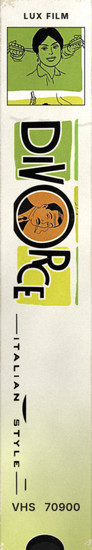
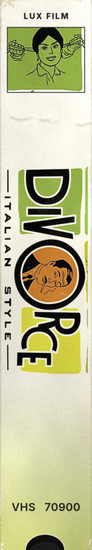
Divorce Italian Style: DIVORCE and ITALIAN STYLE kept together as one block
Claude-Session: https://claude.ai/code/session_01RnhGoNL3FXBroQSY7w3Vr1

diff --git a/spinegen/vault.py b/spinegen/vault.py
@@ -1285,12 +1285,13 @@ std('breakfast-at-tiffany-s-1961', ('grad', [(0, (246, 244, 242)), (.6, (226, 22
     photo=ph(0.24, 0.42, 0.34, 1.9), pb=(20, 20, 20), lg=(20, 20, 20), lw=.55, order='LPTF', ft='b', fcol=(20, 20, 20), fin=OLD, seed=1961)
 
 # Divorce Italian Style (1961; moved to the Vault from 2026 at Ian's request, 26 Nov 2026): the poster's white,
-# its DIVORCE cut off it whole with the green panels and the face in the O, the ruled ITALIAN STYLE beside it,
+# its DIVORCE cut off it whole with the green panels, the face in the O and the ruled ITALIAN STYLE under it
+# kept together as one block (Ian, 26 Nov 2026),
 # one of the comic panels for the picture.  Label from IMDb's company credits (Lux Film).
 std('divorce-italian-style-1961', ('grad', [(0, (250, 250, 246)), (.7, (238, 238, 230)), (1, (196, 206, 120))]), (24, 24, 24),
-    LC([(0.06, 0.293, 0.93, 0.48), (0.08, 0.488, 0.92, 0.522)], 150, gapf=.12, valign='base',
-       cuts=[key_cut(lambda a: (_lum3(a) < .86) | (a.max(2) - a.min(2) > .14)), key_cut(lambda a: _lum3(a) < .4)]),
-    photo=ph(0.5, 0.645, 0.27, 1.0), pb=(24, 24, 24), studio=['LUX FILM'], scol=(24, 24, 24), order='lPTF',
+    LC([(0.06, 0.293, 0.93, 0.524)], 200, margin=2,
+       cuts=[lambda rgb: (rgb, _soft(((_lum3(rgb / 255.) < .86) | (np.ptp(rgb / 255., axis=2) > .14)).astype(np.float32), 1.4))]),
+    photo=ph(0.5, 0.632, 0.27, 0.84), pb=(24, 24, 24), studio=['LUX FILM'], scol=(24, 24, 24), order='lPTF',
     ft='b', fcol=(24, 24, 24), fin=OLD, seed=1961)
 
 # Il Posto (1961): the poster's cream, its white ERMANNO OLMI'S and yellow IL POSTO cut off it in their own colours, Domenico at the desk

diff --git a/CLAUDE.md b/CLAUDE.md
@@ -36,7 +36,7 @@ Each year is its own shelf. `SHELVES` near the top of `app.js` maps year -> data
 Years that were mostly bulk-rated (whole backlogs rated in one sitting, so `watched` is the rating date, not the viewing date) do not get year shelves. They go in **the Vault**, one shelf per decade of release: `vault-1930s.json` ... `vault-2010s.json` (`{"vault": "1990s", "decade": 1990, "films": [...]}`, sorted by release year), 1,036 films from the 2007-2015 ratings (1930s 33, 1940s 51, 1950s 74, 1960s 82, 1970s 60, 1980s 73, 1990s 169, 2000s 320, 2010s 174; earliest 1931). 2016 and later are year shelves. Why 2015 and earlier: 2015 (82 of 107 on four dates), 2014 (all but two of 391), 2013 (22 of 28 on one date), 2012 (all 44 on 25 Jan 2012), 2007-2008 (190 and 275); one film in 2009, none in 2010-2011. The decade files were built from staging `films-<year>.json` files that Ian's fetch-script run filled in (posters, logos, TMDB title/year/genres), then deleted: the decade files are now the source. No film is in two years or on a 2016+ shelf. Sleepless in America has no poster on TMDB.
 - Site: `VAULT` in `app.js` adds `?shelf=1930s` ... `?shelf=2010s` to `SHELVES`; the arrows run 1930s ... 2010s, then 2016 ... 2026. A Vault shelf has no ticket: `.vault-plate` (style.css) is a plate in the ticket's blue and yellow with Blockletter ("THE VAULT / 1990S"); Ian could supply ticket artwork instead. The plate carries a big yellow asterisk (an inline SVG, `.vault-star`; Blockletter's own asterisk is tiny) keyed to a footnote under the ticket row (`.vault-note`, Ian's voice): Vault films were watched before 2016, before he kept a diary, so they have no viewing date and are shelved by decade. The viewer says "Watched before 2016" for every Vault tape instead of the `watched` date (which is only the bulk-rating date), and the "Date watched" sort button is removed there (`?sort=watched` is ignored on a Vault shelf) (Ian, 18 Nov 2026). Its default sort is release year, oldest first (`VIEW_DEFAULT`); the arrows drop `?sort=` when crossing between the Vault and the year shelves. From a Vault shelf the VCR only syncs ratings (it adds no films there); Re-mark spine still works.
 - Staff Picks (Ian's favourites) and a Top 100 are ideas on hold.
-- **Spines: `spinegen/vault.py`** (exec'd at the end of `tapes.py`, same namespace; run them the usual way, `python3 spinegen/tapes.py <id>`). Done so far: 1930s (33) and 1940s (51), 17 Nov 2026, 1950s (74), 1960s (82) and 1970s (60), 1980s (73) and 1990s (169), 18 Nov (troublesome titles parked in `data/logos-wanted.md`, see the rule below); 2000s (320), 18-24 Nov; 2010s (173 of 174; Sleepless in America has no poster, so it keeps the drawn spine), 24 Nov. The whole Vault is done. 2010s clamshells: Tangled, Toy Story 3, Cars 2, Small Fry, Brave, Partysaurus Rex, Wreck-It Ralph, Frozen, Monsters University, Toy Story of Terror!, Big Hero 6, Toy Story That Time Forgot, Inside Out, Riley's First Date? (Alice in Wonderland and Maleficent are live action, so slipcases; Ghibli's Kaguya is a slipcase); 2-tape box: The Wolf of Wall Street. Mix audited 24 Nov: stickers 28%, line under the title 35%, cast 8%, picture below 15%. 2000s clamshells: Dinosaur, Fantasia 2000, The Emperor's New Groove, Atlantis, Monsters Inc., Lilo & Stitch, Return to Never Land, Treasure Planet, Brother Bear, Finding Nemo, The Jungle Book 2, Home on the Range, The Incredibles, Chicken Little, Cars, The Wild, Meet the Robinsons, Ratatouille, WALL-E, The Princess and the Frog, Up (Pirates of the Caribbean, Enchanted and the Narnia films are live action, so slipcases; Ghibli's Ponyo is a slipcase like Kiki's); 2-tape boxes: Lagaan, the three Lord of the Rings films, Dogville, King Kong. The 2000s posters set many titles in chrome, fire, brush or glow, so far more are parked than in older decades (series that share a logo, Harry Potter, Shrek, Ocean's, Madagascar, Pirates, Fast & Furious, Spider-Man, are typeset alike and parked once each). Mix audited 24 Nov: stickers 28%, line under the title 32%, cast 8%, picture below 16%. 1990s clamshells: The Rescuers Down Under, Beauty and the Beast, Aladdin, The Lion King, A Goofy Movie, Pocahontas, Toy Story, James and the Giant Peach, The Hunchback of Notre Dame, Hercules, A Bug's Life, Mulan, Tarzan, Toy Story 2 (Disney live-action films such as The Mighty Ducks and The Parent Trap, and Touchstone's, stay slipcases); 2-tape boxes: Schindler's List, Short Cuts, Magnolia, The Green Mile. 1980s clamshells: The Fox and the Hound, The Black Cauldron, The Great Mouse Detective, Oliver & Company, The Little Mermaid; 2-tape box: The Unbearable Lightness of Being. No 1980s title is typeset. `comp_cut(..., fillh=True)` fills each kept piece's holes. Typeset in the 1970s: The Harder They Come, Marathon Man, The Brink's Job. 1970s clamshells: The Aristocats, Robin Hood, Winnie the Pooh, The Rescuers; 2-tape boxes: The Godfather, The Godfather Part II, The Deer Hunter. `comp_cut(..., opn=1)` skips the opening pass so hairline serifs survive (That Obscure Object of Desire). Typeset in the 1960s (reasons in the specs): Youth of the Beast, Mary Poppins, The Killers (1964), Story of a Prostitute, Band of Outsiders, The Firemen's Ball, Army of Shadows, Salesman. Typeset in the 1950s, each with its reason in the spec: Night and the City, Sunset Boulevard, The African Queen, Sansho the Bailiff, The Swan, The Wrong Man. Made to the same standard as 2016-2026 (Ian asked for "love and respect" for these): every title lifted or cut off its own poster (no typeset titles in the 1930s-40s), a crop picked per poster, credits and typed labels from IMDb (JSON-LD director/actor; company credits for films with no logo file), mix audited against the 2026 targets per decade. Disney clamshells: Snow White, Fantasia, Pinocchio, Dumbo, Bambi. **Divorce Italian Style** came in on the 2026 shelf (VCR, 26 Nov 2026) and was moved to Vault 1960s at Ian's ask (he saw it years ago and loved it): `watched` set to 2008-07-18, one of the bulk-rating dates; the VCR never moves it back, since it never changes a watched date or re-adds a film that is on any shelf. Its spec is in vault.py.
+- **Spines: `spinegen/vault.py`** (exec'd at the end of `tapes.py`, same namespace; run them the usual way, `python3 spinegen/tapes.py <id>`). Done so far: 1930s (33) and 1940s (51), 17 Nov 2026, 1950s (74), 1960s (82) and 1970s (60), 1980s (73) and 1990s (169), 18 Nov (troublesome titles parked in `data/logos-wanted.md`, see the rule below); 2000s (320), 18-24 Nov; 2010s (173 of 174; Sleepless in America has no poster, so it keeps the drawn spine), 24 Nov. The whole Vault is done. 2010s clamshells: Tangled, Toy Story 3, Cars 2, Small Fry, Brave, Partysaurus Rex, Wreck-It Ralph, Frozen, Monsters University, Toy Story of Terror!, Big Hero 6, Toy Story That Time Forgot, Inside Out, Riley's First Date? (Alice in Wonderland and Maleficent are live action, so slipcases; Ghibli's Kaguya is a slipcase); 2-tape box: The Wolf of Wall Street. Mix audited 24 Nov: stickers 28%, line under the title 35%, cast 8%, picture below 15%. 2000s clamshells: Dinosaur, Fantasia 2000, The Emperor's New Groove, Atlantis, Monsters Inc., Lilo & Stitch, Return to Never Land, Treasure Planet, Brother Bear, Finding Nemo, The Jungle Book 2, Home on the Range, The Incredibles, Chicken Little, Cars, The Wild, Meet the Robinsons, Ratatouille, WALL-E, The Princess and the Frog, Up (Pirates of the Caribbean, Enchanted and the Narnia films are live action, so slipcases; Ghibli's Ponyo is a slipcase like Kiki's); 2-tape boxes: Lagaan, the three Lord of the Rings films, Dogville, King Kong. The 2000s posters set many titles in chrome, fire, brush or glow, so far more are parked than in older decades (series that share a logo, Harry Potter, Shrek, Ocean's, Madagascar, Pirates, Fast & Furious, Spider-Man, are typeset alike and parked once each). Mix audited 24 Nov: stickers 28%, line under the title 32%, cast 8%, picture below 16%. 1990s clamshells: The Rescuers Down Under, Beauty and the Beast, Aladdin, The Lion King, A Goofy Movie, Pocahontas, Toy Story, James and the Giant Peach, The Hunchback of Notre Dame, Hercules, A Bug's Life, Mulan, Tarzan, Toy Story 2 (Disney live-action films such as The Mighty Ducks and The Parent Trap, and Touchstone's, stay slipcases); 2-tape boxes: Schindler's List, Short Cuts, Magnolia, The Green Mile. 1980s clamshells: The Fox and the Hound, The Black Cauldron, The Great Mouse Detective, Oliver & Company, The Little Mermaid; 2-tape box: The Unbearable Lightness of Being. No 1980s title is typeset. `comp_cut(..., fillh=True)` fills each kept piece's holes. Typeset in the 1970s: The Harder They Come, Marathon Man, The Brink's Job. 1970s clamshells: The Aristocats, Robin Hood, Winnie the Pooh, The Rescuers; 2-tape boxes: The Godfather, The Godfather Part II, The Deer Hunter. `comp_cut(..., opn=1)` skips the opening pass so hairline serifs survive (That Obscure Object of Desire). Typeset in the 1960s (reasons in the specs): Youth of the Beast, Mary Poppins, The Killers (1964), Story of a Prostitute, Band of Outsiders, The Firemen's Ball, Army of Shadows, Salesman. Typeset in the 1950s, each with its reason in the spec: Night and the City, Sunset Boulevard, The African Queen, Sansho the Bailiff, The Swan, The Wrong Man. Made to the same standard as 2016-2026 (Ian asked for "love and respect" for these): every title lifted or cut off its own poster (no typeset titles in the 1930s-40s), a crop picked per poster, credits and typed labels from IMDb (JSON-LD director/actor; company credits for films with no logo file), mix audited against the 2026 targets per decade. Disney clamshells: Snow White, Fantasia, Pinocchio, Dumbo, Bambi. **Divorce Italian Style** (its DIVORCE / ITALIAN STYLE block cut whole, kept stacked as on the poster at Ian's ask) came in on the 2026 shelf (VCR, 26 Nov 2026) and was moved to Vault 1960s at Ian's ask (he saw it years ago and loved it): `watched` set to 2008-07-18, one of the bulk-rating dates; the VCR never moves it back, since it never changes a watched date or re-adds a film that is on any shelf. Its spec is in vault.py.
   - Old posters set titles on slants, arcs, steps and interlocking stacks, so vault.py adds LC cuts for them: `comp_cut(test, keep=fn(cx, cy), top=n, rot=deg)` keeps whole letter pieces (filtered by position in the crop) and can turn the result; `pick_cut(test, box, pts, rot=, flat=, split=)` keeps the letters whose centres are listed (read them off the poster with a connected-components pass), `flat=True` drops each letter onto one baseline (Charlie Chan at the Opera's staircase), `split=n` erodes first to separate touching script letters; `seq_cut(test, box, pts, turn=, holes=)` rebuilds a word letter by letter in reading order, turning each upright along its arc (Grand Illusion, Cat People, Dumbo's tumbling letters, `holes` fills Dumbo's dots); `plate_cut(test, rot=)` cuts a whole sign or panel with the lettering printed on it (Mr. & Mrs. Smith). `box`/`margin` given to pick_cut/seq_cut must match the LC's own.
   - Batch tools are in `spinegen/vt.py` (sheet, measure, comps, zoom, row, lines, audit; run `python3 spinegen/vt.py <command> ...` from the repo root). They are: a contact sheet with a 10% grid; a row measure (rows where a colour test passes, giving each line's box); a connected-components lister (each letter's centre and box, as poster fractions, for pick_cut/seq_cut); a zoom with a 5% grid; a side-by-side row of rendered spines; the ast audit of vault.py per decade.
 
